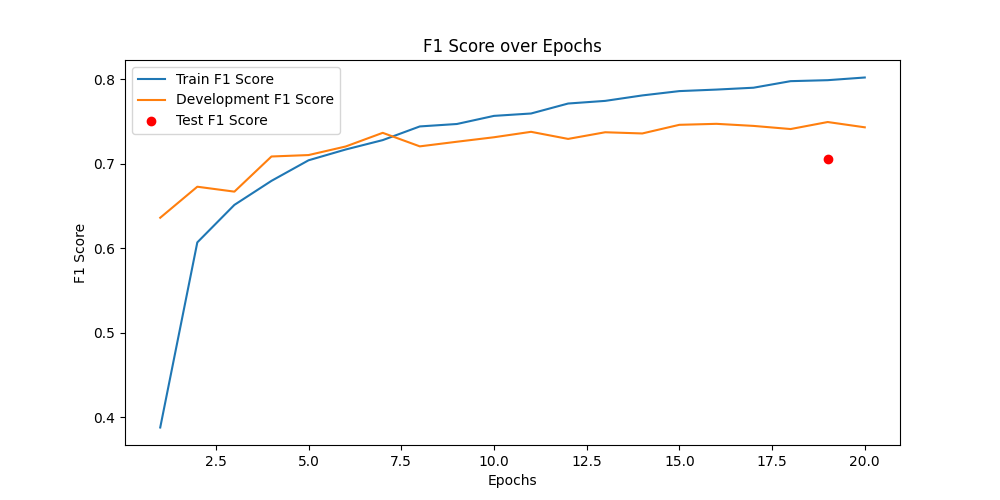
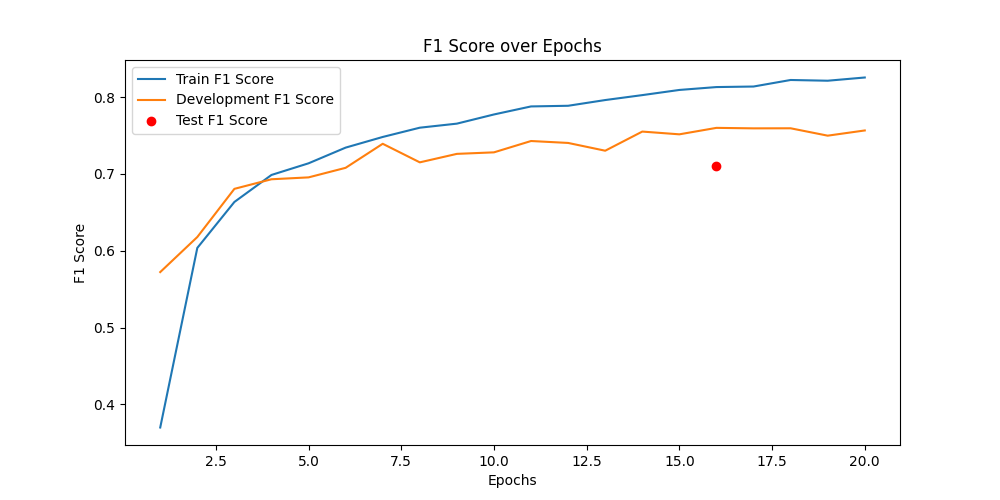
performance update

diff --git a/sequence_tagger.py b/sequence_tagger.py
@@ -1,20 +1,43 @@
-
 import torch
 import torch.nn as nn
 import torch.optim as optim
 import numpy as np
 from torch.utils.data import DataLoader, Dataset
-# Prepare data
 from models.bilstm_model import LSTM_glove_vecs
 from models.tagging_dataset import TaggingDataset
 from utils.conll_reader import read_conll_file
 from utils.glove_loader import load_glove_vectors, get_emb_matrix
 from utils.metrics import precision_recall_f1
-from utils.training_utils import print_embeddings_for_sentence, predict_tags
-from torch.nn.utils import clip_grad_norm_, clip_grad_value_
+from utils.training_utils import print_embeddings_for_sentence, predict_tags, monitor_gradients
+from torch.nn.utils import clip_grad_norm_
 
 from utils.visualization import plot_f1_scores
 
+
+SEED = 42
+embedding_dim = 50
+hidden_dim = 50  # will get doubled due to bidirectional LSTM
+learning_rate = 0.0001
+dropout_rate = 0.0
+batch_size = 1
+
+# Set seeds for reproducibility
+def set_seed(seed):
+    np.random.seed(seed)
+    torch.manual_seed(seed)
+    if torch.cuda.is_available():
+        torch.cuda.manual_seed(seed)
+        torch.cuda.manual_seed_all(seed)
+    torch.backends.cudnn.deterministic = True
+    torch.backends.cudnn.benchmark = False
+
+# Set a seed value
+set_seed(SEED)
+# Check for CUDA availability and set device
+device = torch.device('cuda' if torch.cuda.is_available() else 'cpu')
+print(f'Using device: {device}')
+
+# Prepare data
 train_file = 'data/train.conll'
 dev_file = 'data/dev.conll'
 test_file = 'data/test.conll'
@@ -42,41 +65,26 @@ label_to_idx["PAD"] = 0
 idx_to_label = {idx: label for label, idx in label_to_idx.items()}
 
 # Create Dataset and DataLoader
-train_dataset = TaggingDataset(train_sentences, train_labels, vocab_to_idx, label_to_idx, 50)
-dev_dataset = TaggingDataset(dev_sentences, dev_labels, vocab_to_idx, label_to_idx, 50)
-test_dataset = TaggingDataset(test_sentences, test_labels, vocab_to_idx, label_to_idx, 50)
+train_dataset = TaggingDataset(train_sentences, train_labels, vocab_to_idx, label_to_idx, device, None)
+dev_dataset = TaggingDataset(dev_sentences, dev_labels, vocab_to_idx, label_to_idx, device, None)
+test_dataset = TaggingDataset(test_sentences, test_labels, vocab_to_idx, label_to_idx, device, None)
 
-train_loader = DataLoader(train_dataset, batch_size=1, shuffle=True)
-dev_loader = DataLoader(dev_dataset, batch_size=1)
-test_loader = DataLoader(test_dataset, batch_size=1)
+
+train_loader = DataLoader(train_dataset, batch_size=batch_size, shuffle=True)
+dev_loader = DataLoader(dev_dataset, batch_size=batch_size, shuffle=True)
+test_loader = DataLoader(test_dataset, batch_size=batch_size)
 
 # Initialize model parameters
 vocab_size = embedding_matrix.shape[0]
-embedding_dim = 50
-hidden_dim = 50  # will get doubled due to bidirectional LSTM
 num_labels = len(label_to_idx)
-learning_rate = 0.0015
-dropout_rate = 0.5
 
 # Initialize the model
 model = LSTM_glove_vecs(embedding_dim, hidden_dim, embedding_matrix, num_labels, dropout_rate)
-
+model.to(device)
 
 # Initialize loss function and optimizer
 criterion = nn.CrossEntropyLoss(ignore_index=0)
 optimizer = optim.Adam(model.parameters(), lr=learning_rate)
-
-
-# Function to monitor gradients
-def monitor_gradients(model):
-    grad_norms = {}
-    for name, param in model.named_parameters():
-        if param.grad is not None:
-            grad_norms[name] = param.grad.norm().item()
-    return grad_norms
-
-# Print embeddings for a sample test sentence before training
-print_embeddings_for_sentence(test_sentences[2], model, vocab_to_idx)
 
 # Training the model
 num_epochs = 20
@@ -87,7 +95,6 @@ best_model = None
 best_dev_f1 = 0
 best_epoch = 0
 for epoch in range(num_epochs):
-    predict_tags([word.lower() for word in test_sentences[10]], model, vocab_to_idx, idx_to_label)
     model.train()
     total_loss = 0
 
@@ -97,16 +104,17 @@ for epoch in range(num_epochs):
     van = 0
     normal = 0
     for sentences, labels in train_loader:
+        sentences, labels = sentences, labels
         optimizer.zero_grad()
-        output = model(sentences) # Get model predictions
-        output = output.view(-1, num_labels) # Reshape to (sequence_length, num_labels)
-        labels = labels.view(-1) # Reshape to (sequence_length,)
+        output = model(sentences)
+        output = output.view(-1, num_labels)
+        labels = labels.view(-1)
         loss = criterion(output, labels)
         loss.backward()
 
         # Clip gradients
         clip_grad_norm_(model.parameters(), max_norm=1.0)
-        #clip_grad_value_(model.parameters(), 1)
+
         # Check gradient norms
         grad_norms = monitor_gradients(model)
         for name, norm in grad_norms.items():
@@ -132,6 +140,7 @@ for epoch in range(num_epochs):
     print(f"Exploding gradients: {expl} ({percent_exploding:.2f}%)")
     print(f"Vanishing gradients: {van} ({percent_vanishing:.2f}%)")
     print(f"Normal gradients: {normal} ({percent_normal:.2f}%)")
+
     model.eval()
     _, _, train_f1 = precision_recall_f1(train_preds, train_labels_flat, num_labels)
     train_f1_scores.append(train_f1)
@@ -140,6 +149,7 @@ for epoch in range(num_epochs):
     dev_preds = []
     dev_labels_flat = []
     for sentences, labels in dev_loader:
+        sentences, labels = sentences, labels
         with torch.no_grad():
             output = model(sentences)
         preds = torch.argmax(output, dim=2).view(-1).cpu().numpy()
@@ -149,23 +159,23 @@ for epoch in range(num_epochs):
 
     _, _, dev_f1 = precision_recall_f1(dev_preds, dev_labels_flat, num_labels)
     dev_f1_scores.append(dev_f1)
+
     # Save the best model based on dev F1 score
     if dev_f1 > best_dev_f1:
         best_dev_f1 = dev_f1
         best_model = model.state_dict()
         best_epoch = epoch
 
-
-    # Predict and print the tags for the test sentence
     print(f"Epoch {epoch + 1} - Train F1 Score: {train_f1}, Dev F1 Score: {dev_f1}")
 
-
+# Load best model and evaluate on test data
 model.load_state_dict(best_model)
 model.eval()
-# Evaluate on test data
+
 test_preds = []
 test_labels_flat = []
 for sentences, labels in test_loader:
+    sentences, labels = sentences, labels
     with torch.no_grad():
         output = model(sentences)
     preds = torch.argmax(output, dim=2).view(-1).cpu().numpy()
@@ -175,4 +185,6 @@ for sentences, labels in test_loader:
 
 _, _, test_f1 = precision_recall_f1(test_preds, test_labels_flat, num_labels)
 print(f"Test F1 Score of the best model: {test_f1}")
-plot_f1_scores(train_f1_scores, dev_f1_scores, test_f1, best_epoch, num_epochs, learning_rate, dropout_rate)
+
+# Plot F1 scores
+plot_f1_scores(train_f1_scores, dev_f1_scores, test_f1, best_epoch, num_epochs, learning_rate, dropout_rate, batch_size, SEED)

diff --git a/utils/metrics.py b/utils/metrics.py
@@ -1,31 +1,35 @@
 import numpy as np
 
-
 def f1_calc(y_true, y_pred):
-    TP = np.sum(np.multiply([i == True for i in y_pred], y_true))
-    FP = np.sum(np.multiply([i == True for i in y_pred], [not(j) for j in y_true]))
-    FN = np.sum(np.multiply([i == False for i in y_pred], y_true))
+    y_true = np.array(y_true)
+    y_pred = np.array(y_pred)
+    TP = np.sum((y_pred == True) & (y_true == True))
+    FP = np.sum((y_pred == True) & (y_true == False))
+    FN = np.sum((y_pred == False) & (y_true == True))
     precision = TP / (TP + FP) if (TP + FP) > 0 else 0
     recall = TP / (TP + FN) if (TP + FN) > 0 else 0
-    if precision != 0 and recall != 0:
-        f1 = (2 * precision * recall) / (precision + recall)
-    else:
-        f1 = 0
+    f1 = (2 * precision * recall) / (precision + recall) if (precision + recall) > 0 else 0
     return precision, recall, f1
 
 # Function to calculate macro-average precision, recall, and F1 score
 def precision_recall_f1(preds, labels, num_labels):
+    preds = np.array(preds)
+    labels = np.array(labels)
+
     precision_list = []
     recall_list = []
     f1_list = []
+
     for i in range(num_labels):
-        modified_true = [i == j for j in labels]
-        modified_pred = [i == j for j in preds]
+        modified_true = (labels == i)
+        modified_pred = (preds == i)
         precision, recall, f1 = f1_calc(modified_true, modified_pred)
         precision_list.append(precision)
         recall_list.append(recall)
         f1_list.append(f1)
+
     macro_precision = np.mean(precision_list)
     macro_recall = np.mean(recall_list)
     macro_f1 = np.mean(f1_list)
+
     return macro_precision, macro_recall, macro_f1

diff --git a/utils/visualization.py b/utils/visualization.py
@@ -1,8 +1,6 @@
 import matplotlib.pyplot as plt
-import matplotlib
-matplotlib.use('Agg')
 
-def plot_f1_scores(train_f1_scores, dev_f1_scores, test_f1, best_epoch, num_epochs, learn, drop):
+def plot_f1_scores(train_f1_scores, dev_f1_scores, test_f1, best_epoch, num_epochs, learn, drop, batch_size, seed):
     # Plotting the F1 scores
     plt.figure(figsize=(10, 5))
     plt.plot(range(1, num_epochs + 1), train_f1_scores, label='Train F1 Score')
@@ -14,6 +12,11 @@ def plot_f1_scores(train_f1_scores, dev_f1_scores, test_f1, best_epoch, num_epoc
 
     print(f"Test F1 Score of the best model: {test_f1}")
 
-    plt.plot([best_epoch + 1], [test_f1], 'ro', label='Test F1 Score')  # Add a single red point for test F1 score
+    # Add a single red point for test F1 score
+    plt.plot([best_epoch + 1], [test_f1], 'ro', label='Test F1 Score')
+    plt.text(best_epoch + 1, test_f1, f'{test_f1:.6f}', fontsize=12, ha='right', color='red')
+
     plt.legend()
-    plt.savefig(f'f1_scores_plot_lr={learn}&d={drop}.png')
+    plt.savefig(f'f1_scores_plot_lr={learn}&d={drop}&batch={batch_size}&seed={seed}.png')
+    plt.show()
+

diff --git a/models/tagging_dataset.py b/models/tagging_dataset.py
@@ -3,13 +3,17 @@ from torch.utils.data import Dataset
 
 
 class TaggingDataset(Dataset):
-    def __init__(self, sentences, labels, vocab_to_idx, label_to_idx, max_length=100):
+    def __init__(self, sentences, labels, vocab_to_idx, label_to_idx, device, max_length=None):
         self.sentences = sentences
         self.labels = labels
         self.vocab_to_idx = vocab_to_idx
         self.label_to_idx = label_to_idx
-        self.max_length = max_length
-
+        self.device = device
+        if max_length == None:
+            self.max_length = max(len(sentence) for sentence in self.sentences)
+        else:
+            self.max_length = max_length
+        print("max length ", self.max_length)
     def __len__(self):
         return len(self.sentences)
 
@@ -27,4 +31,4 @@ class TaggingDataset(Dataset):
             sentence_idx = sentence_idx[:self.max_length]
             label_idx = label_idx[:self.max_length]
 
-        return torch.tensor(sentence_idx), torch.tensor(label_idx)
+        return torch.tensor(sentence_idx).to(self.device), torch.tensor(label_idx).to(self.device)

diff --git a/utils/conll_reader.py b/utils/conll_reader.py
@@ -4,13 +4,13 @@ def read_conll_file(file_path):
         sentence, sentence_labels = [], []
         for line in f:
             if line.startswith("-DOCSTART-"):
+                continue
+            if line.strip() == "":
                 if sentence:
                     sentences.append(sentence)
                     labels.append(sentence_labels)
                     sentence = []
                     sentence_labels = []
-                continue
-            if line.strip() == "":
                 continue
             parts = line.strip().split()
             token = parts[0].lower()  # Lowercase the token
